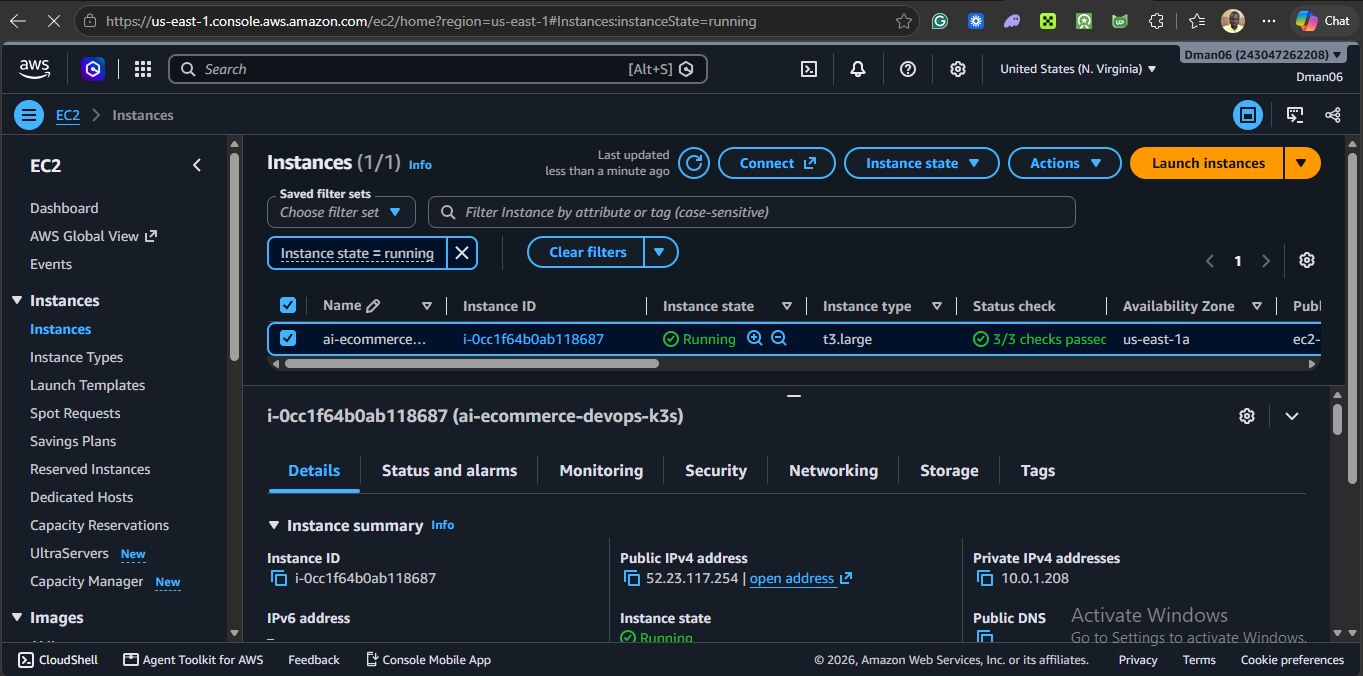
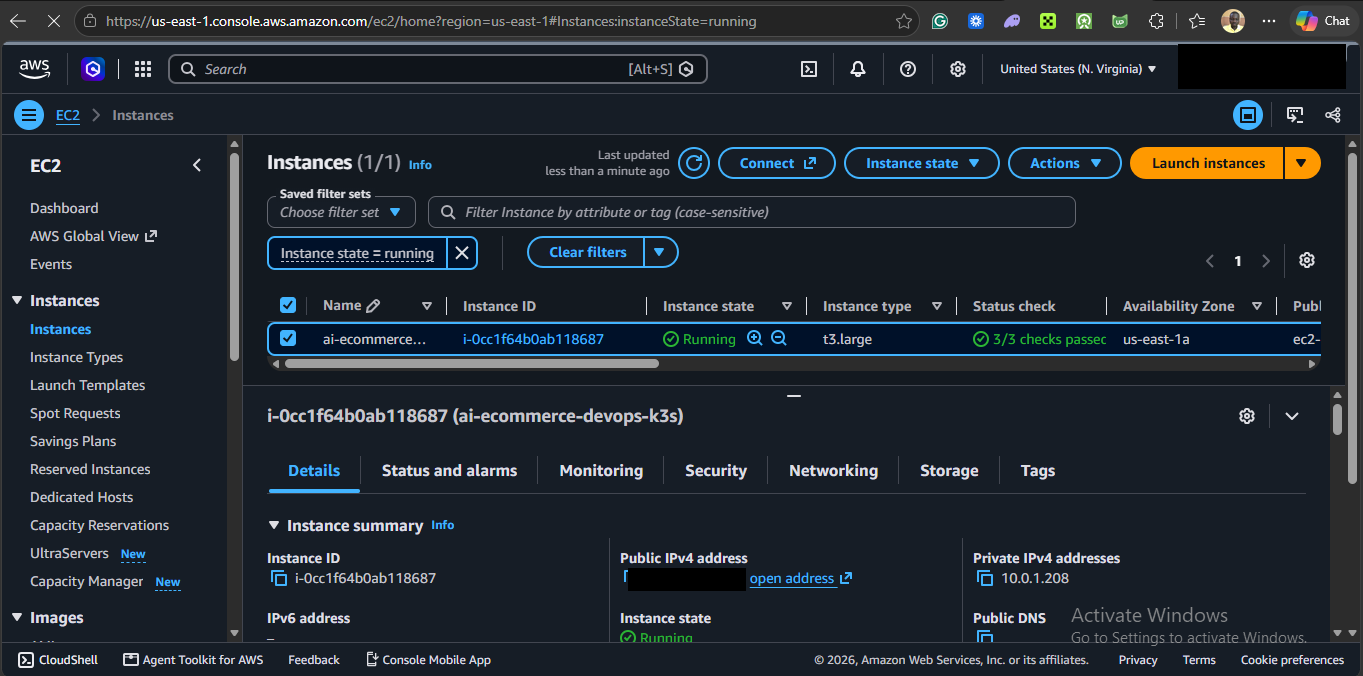
docs(evidence): redact the account ID and public addresses
Removes the AWS account ID, the released Elastic IPs and the admin address range
from screenshots, logs, the challenges log, ADR-0017 and the network diagram.

Changed region(s): [[0.8628, 0.0621, 1.0, 0.1553], [0.4622, 0.8388, 0.5547, 0.9009]]

diff --git a/docs/evidence/m7-incident-report.md b/docs/evidence/m7-incident-report.md
@@ -26,10 +26,10 @@ What to do:
 Evidence:
 
 ```
-[pod/client-7bdb9c455c-7rsb8/client] 2026/11/01 19:10:05 [error] 22#22: *295 connect() failed (111: Connection refused) while connecting to upstream, client: 10.42.0.8, server: _, request: "GET /api/category/list HTTP/1.1", upstream: "http://10.43.140.139:3000/api/category/list", host: "52.23.117.25
-[pod/client-7bdb9c455c-7rsb8/client] 2026/11/01 19:10:14 [error] 22#22: *295 connect() failed (111: Connection refused) while connecting to upstream, client: 10.42.0.8, server: _, request: "GET /api/health HTTP/1.1", upstream: "http://10.43.140.139:3000/api/health", host: "52.23.117.254"
-[pod/client-7bdb9c455c-7rsb8/client] 2026/11/01 19:10:15 [error] 22#22: *295 connect() failed (111: Connection refused) while connecting to upstream, client: 10.42.0.8, server: _, request: "GET /api/health HTTP/1.1", upstream: "http://10.43.140.139:3000/api/health", host: "52.23.117.254"
-[pod/client-7bdb9c455c-p4d7z/client] 2026/11/01 19:10:05 [error] 21#21: *291 connect() failed (111: Connection refused) while connecting to upstream, client: 10.42.0.8, server: _, request: "GET /api/brand/list HTTP/1.1", upstream: "http://10.43.140.139:3000/api/brand/list", host: "52.23.117.254", re
+[pod/client-7bdb9c455c-7rsb8/client] 2026/11/01 19:10:05 [error] 22#22: *295 connect() failed (111: Connection refused) while connecting to upstream, client: 10.42.0.8, server: _, request: "GET /api/category/list HTTP/1.1", upstream: "http://10.43.140.139:3000/api/category/list", host: "[elastic-ip-1]
+[pod/client-7bdb9c455c-7rsb8/client] 2026/11/01 19:10:14 [error] 22#22: *295 connect() failed (111: Connection refused) while connecting to upstream, client: 10.42.0.8, server: _, request: "GET /api/health HTTP/1.1", upstream: "http://10.43.140.139:3000/api/health", host: "[elastic-ip-1]"
+[pod/client-7bdb9c455c-7rsb8/client] 2026/11/01 19:10:15 [error] 22#22: *295 connect() failed (111: Connection refused) while connecting to upstream, client: 10.42.0.8, server: _, request: "GET /api/health HTTP/1.1", upstream: "http://10.43.140.139:3000/api/health", host: "[elastic-ip-1]"
+[pod/client-7bdb9c455c-p4d7z/client] 2026/11/01 19:10:05 [error] 21#21: *291 connect() failed (111: Connection refused) while connecting to upstream, client: 10.42.0.8, server: _, request: "GET /api/brand/list HTTP/1.1", upstream: "http://10.43.140.139:3000/api/brand/list", host: "[elastic-ip-1]", re
 [pod/client-7bdb9c455c-p4d7z/client] 2026/11/01 19:10:15 [error] 21#21: *291 connect() failed (111: Connection refused) while connecting to upstream, client: 10.42.0.8, server: _, request: "GET /api/product/list?sortOrder=%7b%22_id%22%3a-1%7d&rating=0&min=1&max=2500 HTTP/1.1", upstream: "http://10.4
 ```
 

diff --git a/docs/decisions/0017-limit-admin-ports-to-the-isp-s-address-range.md b/docs/decisions/0017-limit-admin-ports-to-the-isp-s-address-range.md
@@ -6,11 +6,11 @@ decision-makers: Oseni Sakariyau Oluwadamilare
 
 # Limit admin ports to the ISP's address range
 
-> In the context of DevOps Platform, facing SSH and the Kubernetes API must reach the node from a laptop whose public address changes: it moved from .7 to .15 within the hour, we decided for allow the ISP's /24 and neglected allow one /32, AWS Systems Manager Session Manager, allow 0.0.0.0/0, to achieve security, reliability, accepting that other customers of the ISP can reach the ports, though they can't authenticate.
+> In the context of DevOps Platform, facing SSH and the Kubernetes API must reach the node from a laptop whose public address changes: it changed within the same range inside an hour, we decided for allow the ISP's /24 and neglected allow one /32, AWS Systems Manager Session Manager, allow 0.0.0.0/0, to achieve security, reliability, accepting that other customers of the ISP can reach the ports, though they can't authenticate.
 
 ## Context and Problem Statement
 
-SSH and the Kubernetes API must reach the node from a laptop whose public address changes: it moved from .7 to .15 within the hour. A /32 rule could lock out Ansible mid-run.
+SSH and the Kubernetes API must reach the node from a laptop whose public address changes: it changed within the same range inside an hour. A /32 rule could lock out Ansible mid-run.
 
 ## Decision Drivers
 
@@ -28,7 +28,7 @@ SSH and the Kubernetes API must reach the node from a laptop whose public addres
 
 Chosen option: "Allow the ISP's /24", because it best meets the decision drivers (security, reliability).
 
-We will allow ports 22 and 6443 from 102.219.152.0/24, and rely on the SSH key and API client certificate for authentication.
+We will allow ports 22 and 6443 from my ISP's /24 range, and rely on the SSH key and API client certificate for authentication.
 
 ### Consequences
 

diff --git a/docs/challenges-log.md b/docs/challenges-log.md
@@ -164,9 +164,9 @@ Problems met while building the platform, how each was diagnosed and fixed, and 
 
 ## 20. The laptop's public address kept changing (M5)
 
-- **Symptom:** the address went from `102.219.152.7` to `102.219.152.15` within the hour, while planning a firewall rule for one address.
+- **Symptom:** the address changed within the same range inside an hour, while planning a firewall rule for one address.
 - **Cause:** the ISP rotates addresses from a pool, so a `/32` rule could lock out Ansible and kubectl mid-run.
-- **Decision:** the security group allows `102.219.152.0/24` for SSH and the Kubernetes API, not the whole internet. SSH still needs the key, and the API its client certificate.
+- **Decision:** the security group allows the ISP's /24 range for SSH and the Kubernetes API, not the whole internet. SSH still needs the key, and the API its client certificate.
 - **Lesson:** match a control to how the network really behaves, and record the trade-off.
 
 ## 21. The first Ansible run lost its connection at the end (M5)
